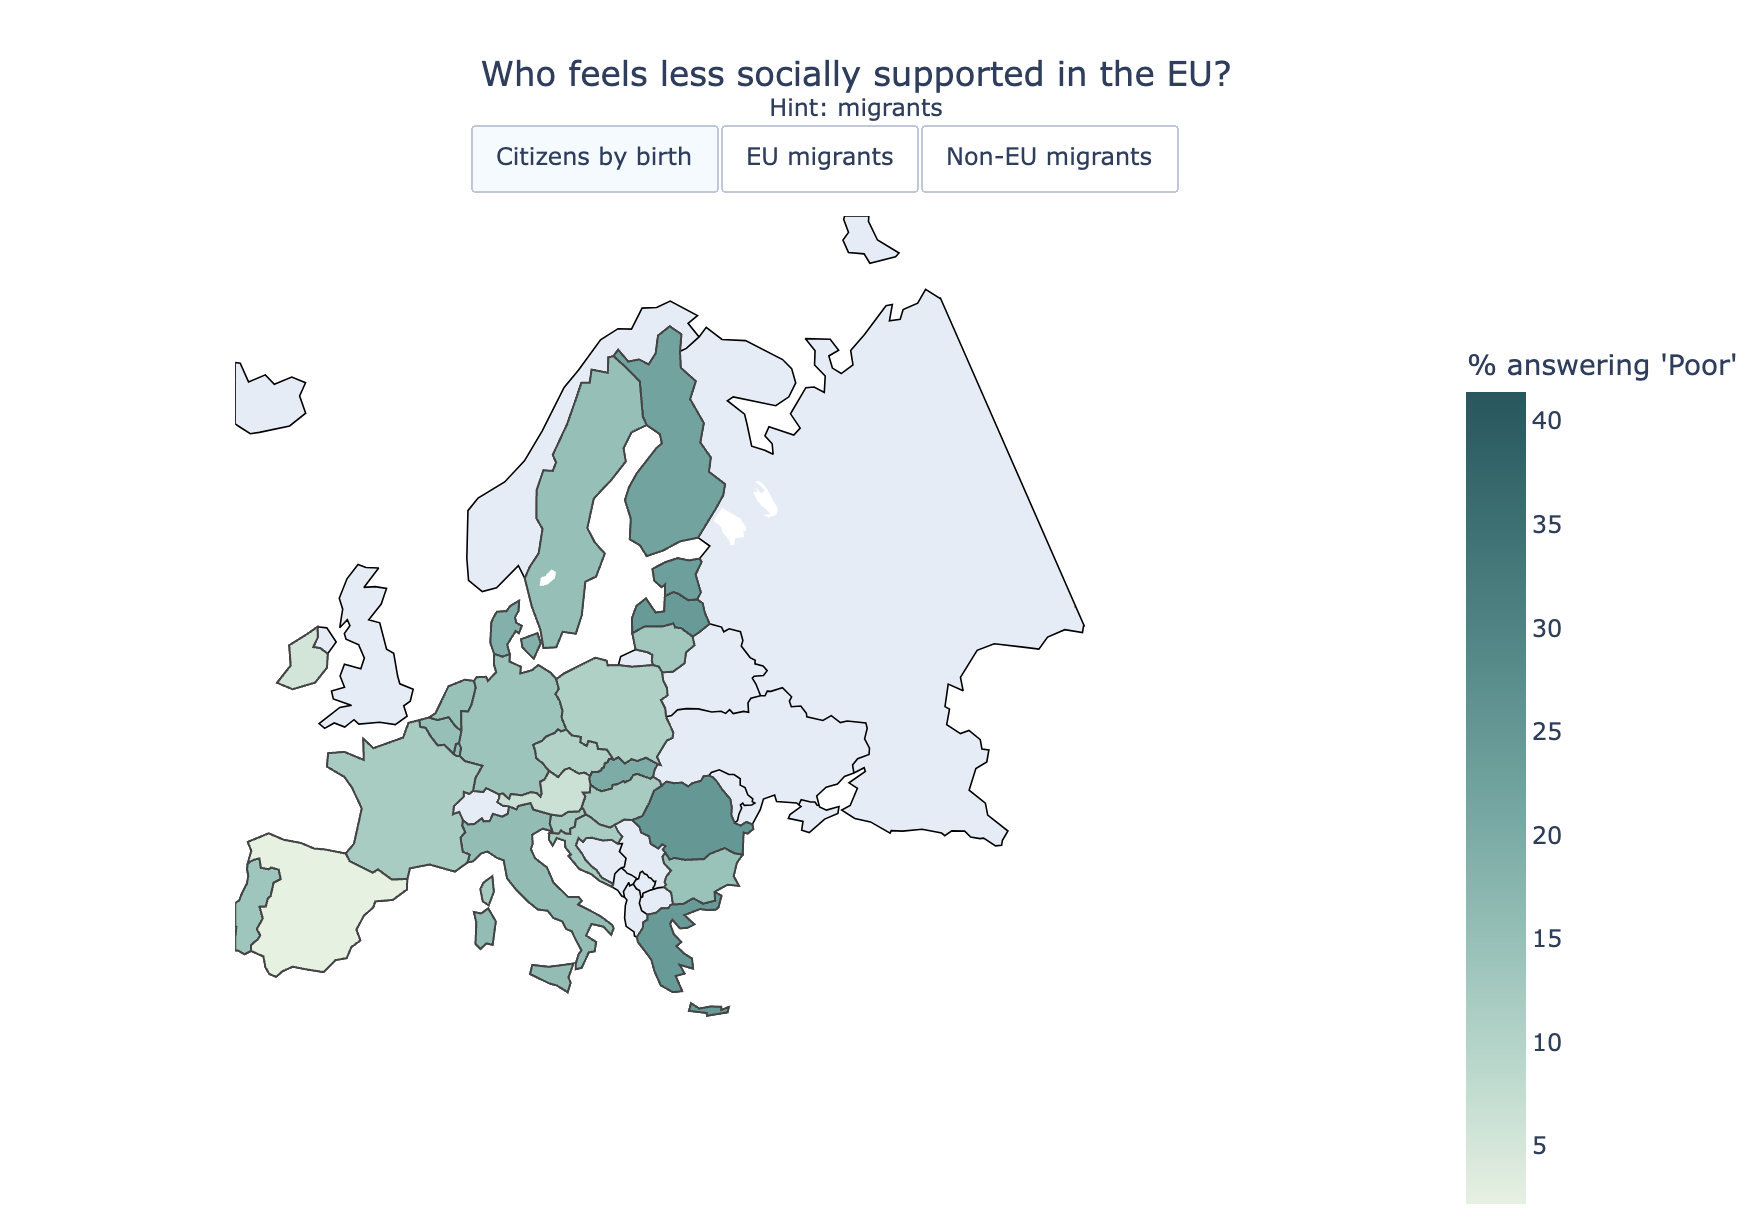
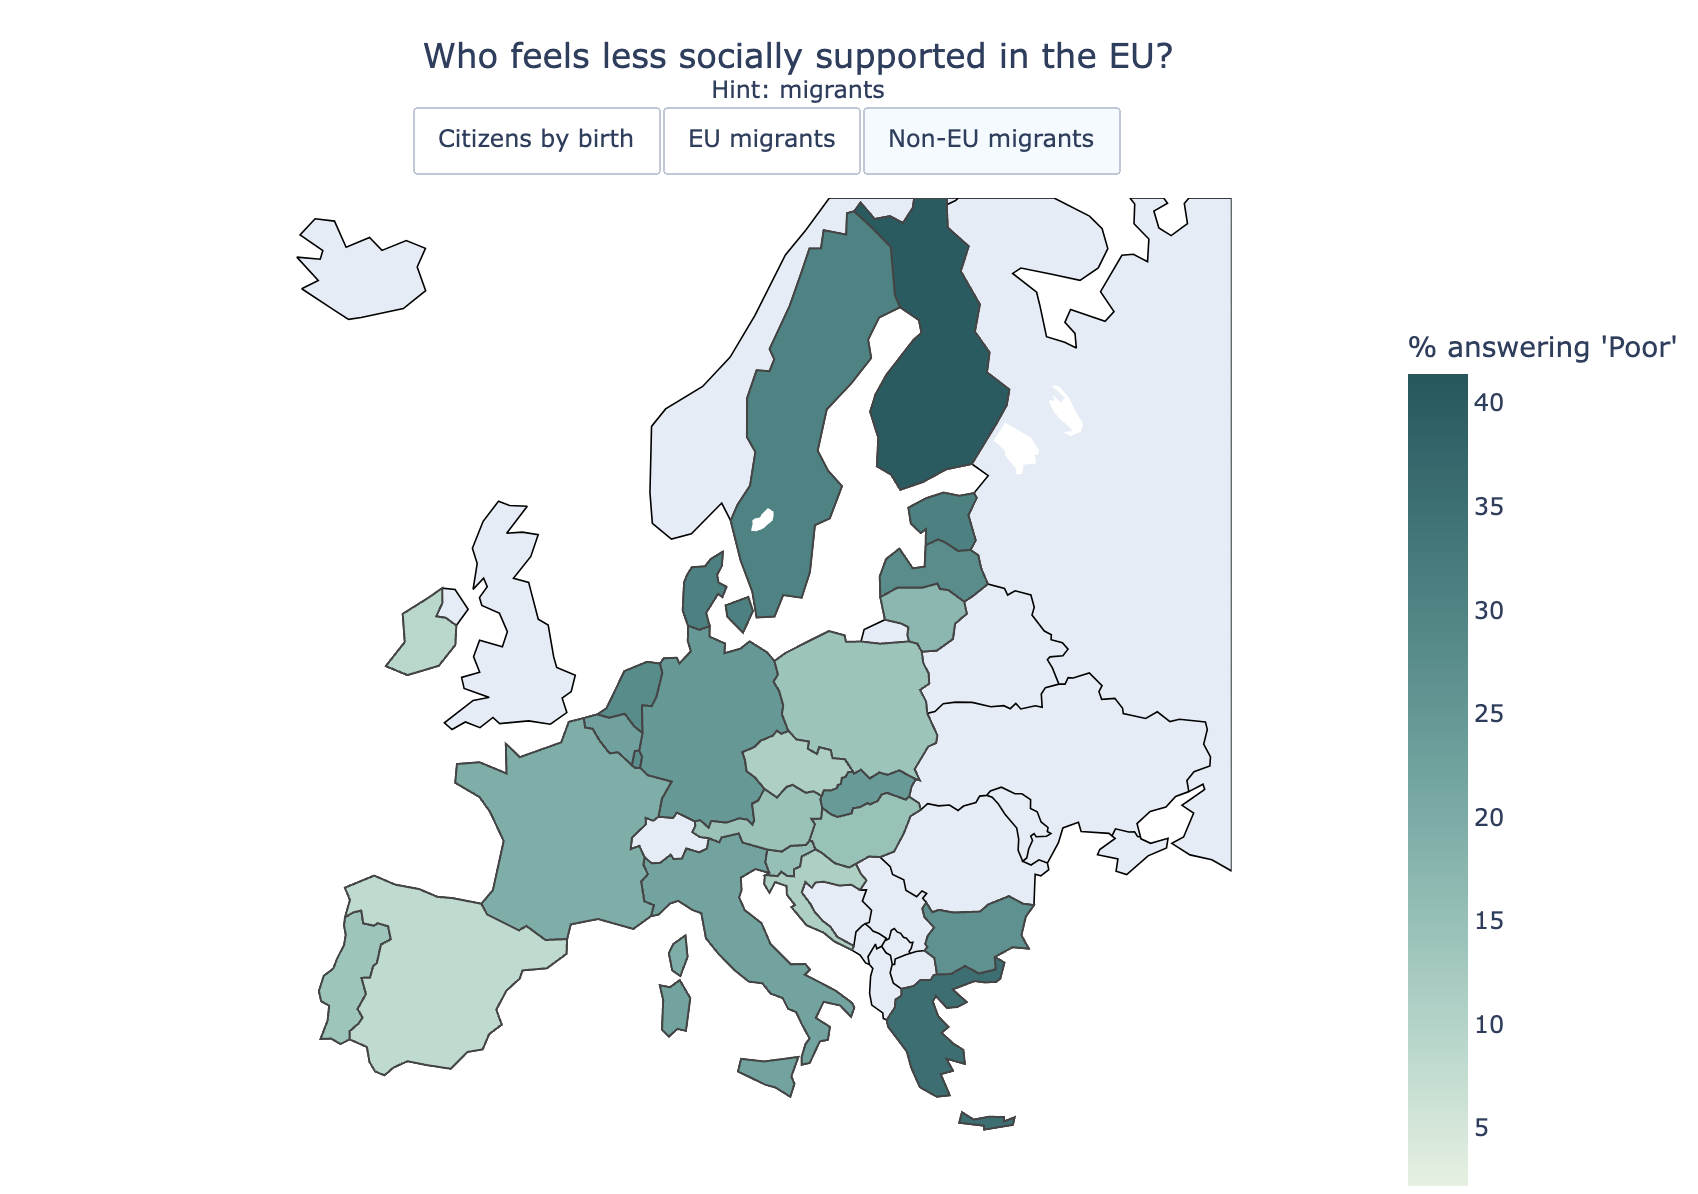
changed links in readme

diff --git a/README.md b/README.md
@@ -12,14 +12,16 @@ The visualization:
 - focuses exclusively on EU countries,
 - includes custom styling and annotations for presentation-quality output.
 
-##Some conclusions
+## Some conclusions
+
 The strong feeling of social support isn't a given even among Europians who are citizens by birth. 
 
-![aPreview citizens](<preview_citizens.png>)
+![Preview citizens](<preview_citizens.png>)
 
 However, when it comes to perception of social support of non-EU migrants, they report a poor support more often - the common trend for all EU countries. In Finland, 40% of the non-EU respondents rate social support as "poor", the highest level in the EU, followed by Greece with 35%. 
 
-![Preview Non-EU migrants](<preview_non_eu_migrants.png>)
+![Preview non-EU migrants](preview_non_eu_migrants.png)
+
 
 ## Notebooks
 